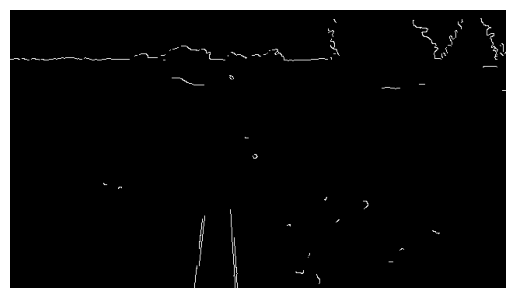
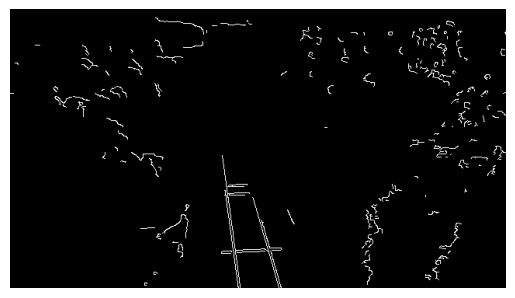
Correction : cas plus complexes
+ Ajout d'images
+ Adaptation aux cas plus complexes (ex : BNBNBNBN)

diff --git a/prog/process_test.py b/prog/process_test.py
@@ -29,9 +29,10 @@ class Image():
         self.rgb = np.array(io.imread(f"{self.IMAGES_PATH}{path}.png"))
         print("Converting image to GrayScale...")
         self.gs = np.array([[[int(0.227*self.rgb[i][j][0] + 0.587*self.rgb[i][j][1] + 0.114*self.rgb[i][j][2]) for _ in range(3)]
-                            for j in range(len(self.rgb[0])-1)] for i in range(len(self.rgb)-1)])       # Array à 3 dimensions
+                            for j in range(len(self.rgb[0]))] for i in range(len(self.rgb))])       # Array à 3 dimensions
         self.monodim = np.array([[int(0.227*self.rgb[i][j][0] + 0.587*self.rgb[i][j][1] + 0.114*self.rgb[i][j][2])
-                            for j in range(len(self.rgb[0])-1)] for i in range(len(self.rgb)-1)])       # Array à une dimension
+                            for j in range(len(self.rgb[0]))] for i in range(len(self.rgb))])       # Array à une dimension
+        #self.monodim = nd.convolve(self.monodim, gaussian3.contents)
         self.monodim = nd.convolve(self.monodim, gaussian5.contents)
         self.med = np.mean(self.monodim)
         self.max = self.monodim.max()
@@ -161,7 +162,7 @@ class Image():
                         self.hspace[rh][th] += 1
         
         # Recherche des maxima
-        resolution = 0.95 * self.hspace.max()         # Nombre minimal d'intersections (95 % du max)
+        resolution = 0.6 * self.hspace.max()         # Nombre minimal d'intersections (75 % du max)
         self.lines = []     # Liste des lignes trouvées (tuple de deux points)
         for y in range(self.RHO_RES):
             for x in range(self.THETA_RES):
@@ -199,9 +200,9 @@ class Image():
         final.title.set_text("Lignes détectées")
         plt.show()
 
-    def line_pix(self, resolution = 300):
+    def line_pix(self, resolution = 500):
         """Recherche de l'état des pixels sur une ligne donnée"""
-        self.obstacle_min_size = int(0.05 * resolution)           # Dimension minimale d'une discontinuité
+        self.obstacle_min_size = int(0.02 * resolution)           # Dimension minimale d'une discontinuité
         self.pixels = []
         print("Searching for obstacles...")
 
@@ -209,8 +210,8 @@ class Image():
             """Obtention de l'état des pixels voisins"""
             im = self.mono_borders
             res = []
-            for dx in range(-2, 3):
-                for dy in range(-2, 3):
+            for dx in range(-1, 2):
+                for dy in range(-1, 2):
                     try:
                         res.append(int(im[x+dx, y+dy]))
                     except:
@@ -226,7 +227,7 @@ class Image():
             ys = ys.astype(int)
             pixs = []
             for i in range(len(ys)):
-                if self.mono_borders[ys[i], xs[i]] != 0 or max(adjacent_pix(ys[i], xs[i])) > 0:
+                if self.mono_borders[ys[i], xs[i]] != 0:# or max(adjacent_pix(ys[i], xs[i])) > 0:
                     pixs.append(255)
                 else:
                     pixs.append(0)
@@ -257,6 +258,15 @@ class Image():
     
     def detect(self):
         """Détection de la présence ou non d'un obstacle"""
+        def blinks(array):
+            """Renvoie True si un N se situe entre deux B, sinon rien"""
+            for i in range(len(array)):
+                try:
+                    if array[i] == 'N' and array[i-1] == 'B' and array[i+1] == 'B':
+                        return(True)
+                except IndexError:
+                    pass
+
         for line in self.pixels:
             current_linestate = []
             area_color = line[0]
@@ -264,7 +274,7 @@ class Image():
                 if line[t] != area_color or t == len(line) - 1:
                     current_linestate.append('N') if area_color == 0 else current_linestate.append('B')
                 area_color = line[t]
-            if current_linestate == ['B', 'N', 'B'] or current_linestate == ['B', 'N', 'B', 'N']:
+            if blinks(current_linestate):
                 return(True)
         return(False)
 
@@ -299,6 +309,12 @@ def r2(im : Image, axis = False):
     if not axis:
         plt.axis('off')
     plt.imshow(im.mono_borders)
+    plt.show()
+
+def debugdebugdebugdebug(renderable_im):
+    plt.axis('off')
+    plt.imshow(renderable_im)
+    plt.savefig("acc.png", bbox_inches = 'tight')
     plt.show()
 
 
@@ -341,9 +357,7 @@ def mainloop():
     print("Processing...")
 
     ### Initialisation des images
-    #cur_im = io.imread("no_kiha.png")
-    #cur_im = io.imread("dummy2.png") # HD
-    cur_im = Image("empty3")
+    cur_im = Image("empty2")
     cur_im.canny()
     plt.axis('off')
     plt.imshow(cur_im.borders)
@@ -351,7 +365,7 @@ def mainloop():
     cur_im.hough()
     cur_im.line_pix()
     print(cur_im.detect())
-    #debug(cur_im)
+    debug(cur_im)
 
 
 mainloop()
